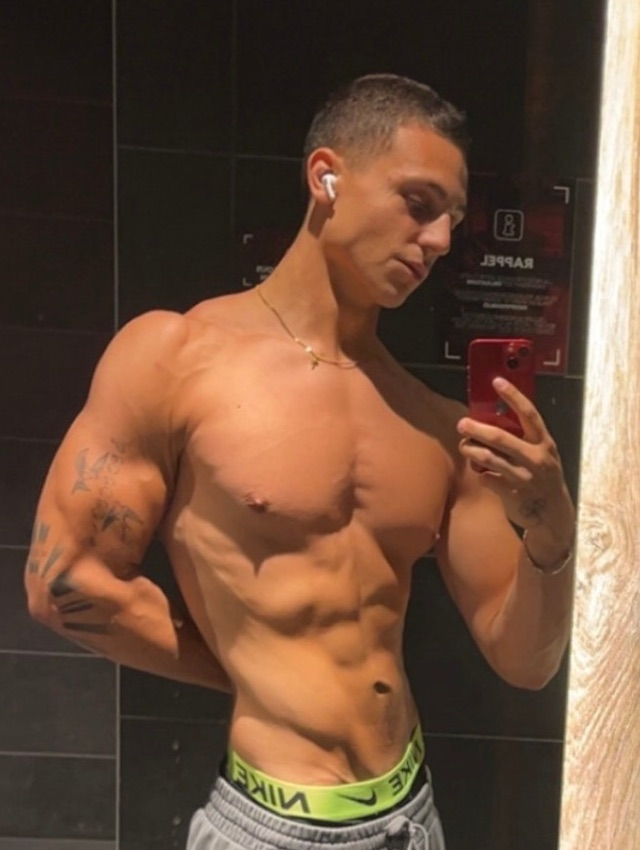
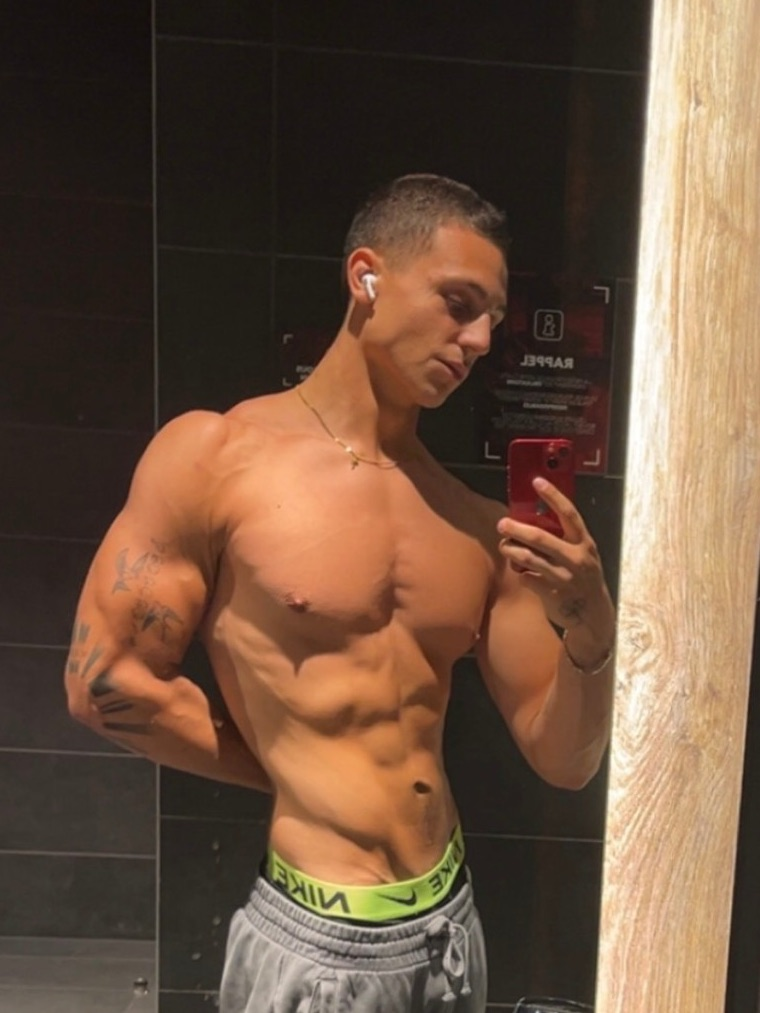
Add files via upload

diff --git a/index.html b/index.html
@@ -461,7 +461,7 @@
 
       <div class="transfo-duo reveal">
         <figure class="transfo-photo avant">
-          <img src="transfo-15.jpg" alt="Victor à 15 ans, en randonnée sur le GR 20" loading="lazy">
+          <img src="transfo-15.jpg?v=2" alt="Victor à 15 ans, en randonnée sur le GR 20" loading="lazy">
           <figcaption>15 ans</figcaption>
         </figure>
         <div class="transfo-fleche" aria-hidden="true">
@@ -469,7 +469,7 @@
           <span>4 ans</span>
         </div>
         <figure class="transfo-photo apres">
-          <img src="transfo-19.jpg" alt="Victor à 19 ans, après quatre ans d’entraînement" loading="lazy">
+          <img src="transfo-19.jpg?v=2" alt="Victor à 19 ans, après quatre ans d’entraînement" loading="lazy">
           <figcaption>19 ans</figcaption>
         </figure>
       </div>
